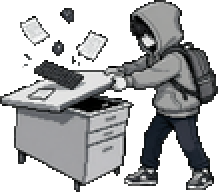
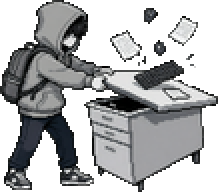
Boss fight: a PixiJS effects layer (slashes, impact stars, sparks, rings, hit-stop, jolt), the objects' battle forms, the painting lit
Effects (author 2026-11-14: 「光影、打击感、动画、光效火焰」): one Pixi canvas over the boss page,
loaded on demand (a dynamic import; the main bundle stays as it was). It reads the fight after every
render and spawns once per act, timed to the move — the laptop and the keyboard land after they
fly: a slash arc and an impact star with sparks for ours, dark red-black shards and a slow ring for
the boss's moves, rings for a shout or a dodge, green sparkles for a heal, grey rings for a miss.
Weight: a hit-stop (every animation frozen 70 ms, longer for the boss's and the desk-flip) and a
jolt of the field, as classes on the page. No WebGL or a failed import: the fight plays as before.

The objects' battle forms (author: one attack form each, one of them a doctor): eight generated
pixel fighters cut to 128 px — the chick boxer with the red headband, the pager robot with a
megaphone, the camera creature, the walkman as a nurse with a red cross (the healer), the
dictionary scholar, the calculator accountant, the meal card swordsman, the ringing phone. They
stand on the ground line and lunge when they act; their plates and gauge marks use the same art.

Also: the desk-flip sprites mirrored to face the boss; the boss sprites' remaining white leaks
cleared (greys outside the mouth); a lamp on the party's ground and a lighter lower third so the
fighters read; the painting preloaded during the pull-out so the intro opens on it.

diff --git a/src/world/endings/boss-fx.ts b/src/world/endings/boss-fx.ts
@@ -1,0 +1,217 @@
+// The boss fight's effects layer (author 2026-11-14: 「光影、打击感、动画、光效火焰」): one PixiJS canvas over
+// the boss page, loaded only when the page is up (a dynamic import; the main bundle does not carry
+// Pixi). The DOM keeps drawing the fighters; this layer draws what a hit adds — the slash arc, the
+// impact star and its sparks, the rings of a shout, the sparkles of a heal, the dark burst of the
+// boss's moves — and gives the hit its weight: a hit-stop (every animation frozen for a moment) and
+// a jolt of the field, both as classes on the page. It reads the session's fight after every render
+// and spawns once per act; the canvas element is the layer's own and is re-attached to each new page.
+// No WebGL, a failed import or a failed init: nothing is drawn and the fight plays as before.
+import type { ActionContext } from "@world/desktop/controller";
+import { ACT_MS, BOSS_BG, type Act, type BossBattle, type Fx } from "./boss";
+
+type Hook = { after(): void; destroy(): void };
+type Pixi = typeof import("pixi.js");
+
+interface Particle { g: import("pixi.js").Graphics; vx: number; vy: number; life: number; age: number; gravity: number; spin: number; ring?: { r: number; dr: number; color: number; width: number } }
+interface Pt { x: number; y: number }
+
+export const HIT_STOP_MS = 70;
+export const JOLT_MS = 320;
+/** When an act's impact lands after it starts, by the move's effect (the projectiles fly first). */
+export const IMPACT_DELAY: Readonly<Record<Fx, number>> = { throw: 640, flip: 620, strike: 300, shake: 200, flash: 120, heal: 150, none: 200 };
+
+const COLOR = { ours: 0xf6b73c, boss: 0xb91c1c, heal: 0x7fe0b8, white: 0xffffff, stage2: 0xa21caf } as const;
+
+export function createBossFx(deps: { readonly load?: () => Promise<Pixi>; readonly nowMs?: () => number } = {}): (root: HTMLElement, ctx: ActionContext) => Hook {
+  return (root, ctx) => {
+    const doc = root.ownerDocument;
+    const canvas = doc.createElement("canvas");
+    canvas.className = "bs-canvas";
+    canvas.width = 1600;
+    canvas.height = 900;
+    let pixi: Pixi | null = null;
+    let app: import("pixi.js").Application | null = null;
+    let layer: import("pixi.js").Container | null = null;
+    let loading: Promise<void> | null = null;
+    let failed = false;
+    let lastActAt = -1;
+    let preloaded = false;
+    const particles: Particle[] = [];
+    const timers = new Set<ReturnType<typeof setTimeout>>();
+    const later = (ms: number, fn: () => void) => { const id = setTimeout(() => { timers.delete(id); fn(); }, ms); timers.add(id); };
+
+    const boot = (): void => {
+      if (app || loading || failed) return;
+      loading = (deps.load ?? (() => import("pixi.js")))()
+        .then(async (P) => {
+          pixi = P;
+          const a = new P.Application();
+          await a.init({ canvas, width: 1600, height: 900, backgroundAlpha: 0, antialias: false, resolution: 1, autoDensity: false });
+          layer = new P.Container();
+          a.stage.addChild(layer);
+          a.ticker.add((t) => tick(t.deltaMS));
+          app = a;
+        })
+        .catch(() => { failed = true; canvas.remove(); });
+    };
+
+    /** A point on the page's 1600 × 900 stage from an element's box. */
+    const pointOf = (page: HTMLElement, sel: string, fx = 0.5, fy = 0.5): Pt | null => {
+      const el = page.querySelector<HTMLElement>(sel);
+      if (!el) return null;
+      const pr = page.getBoundingClientRect();
+      const r = el.getBoundingClientRect();
+      const k = pr.width > 0 ? 1600 / pr.width : 1;
+      return { x: (r.left - pr.left + r.width * fx) * k, y: (r.top - pr.top + r.height * fy) * k };
+    };
+    const targetPoint = (page: HTMLElement, b: BossBattle, id: string): Pt | null =>
+      id === "boss" ? pointOf(page, ".bs-boss-img", 0.3, 0.42) : pointOf(page, `.bs-member[data-id="${id}"] .bs-sprite`, 0.5, 0.45);
+
+    const circle = (x: number, y: number, r: number, color: number, alpha = 1): import("pixi.js").Graphics => {
+      const g = new pixi!.Graphics();
+      g.circle(0, 0, r).fill({ color, alpha });
+      g.position.set(x, y);
+      layer!.addChild(g);
+      return g;
+    };
+    const spark = (x: number, y: number, color: number, speed: number, life: number, gravity = 0.0015, size = 4): void => {
+      const a = Math.random() * Math.PI * 2;
+      const v = speed * (0.4 + Math.random() * 0.6);
+      const g = new pixi!.Graphics();
+      g.rect(-size / 2, -size / 2, size * (1 + Math.random()), size).fill({ color });
+      g.position.set(x, y);
+      g.rotation = a;
+      layer!.addChild(g);
+      particles.push({ g, vx: Math.cos(a) * v, vy: Math.sin(a) * v, life, age: 0, gravity, spin: (Math.random() - 0.5) * 0.02 });
+    };
+    /** A burst of light: the star, a ring, and sparks. */
+    const impact = (p: Pt, color: number, big = false): void => {
+      if (!pixi || !layer) return;
+      const star = new pixi.Graphics();
+      const spikes = 8, R = big ? 90 : 56;
+      for (let i = 0; i < spikes; i++) {
+        const a = (i / spikes) * Math.PI * 2;
+        star.moveTo(0, 0).lineTo(Math.cos(a) * R, Math.sin(a) * R).lineTo(Math.cos(a + 0.18) * R * 0.28, Math.sin(a + 0.18) * R * 0.28).closePath();
+      }
+      star.fill({ color: COLOR.white, alpha: 0.95 });
+      star.position.set(p.x, p.y);
+      layer.addChild(star);
+      particles.push({ g: star, vx: 0, vy: 0, life: 220, age: 0, gravity: 0, spin: 0.01 });
+      const ring = new pixi.Graphics();
+      ring.position.set(p.x, p.y);
+      layer.addChild(ring);
+      particles.push({ g: ring, vx: 0, vy: 0, life: 380, age: 0, gravity: 0, spin: 0, ring: { r: big ? 30 : 18, dr: big ? 0.42 : 0.3, color, width: 6 } });
+      for (let i = 0; i < (big ? 36 : 22); i++) spark(p.x, p.y, i % 3 === 0 ? COLOR.white : color, big ? 0.9 : 0.6, 500 + Math.random() * 400);
+    };
+    /** A slash: a bright arc across the target, fading. */
+    const slash = (p: Pt, color: number): void => {
+      if (!pixi || !layer) return;
+      const g = new pixi.Graphics();
+      g.arc(0, 0, 110, -2.2, -0.4).stroke({ color: COLOR.white, width: 14, alpha: 0.95 });
+      g.arc(0, 0, 118, -2.1, -0.5).stroke({ color, width: 5, alpha: 0.9 });
+      g.position.set(p.x, p.y + 40);
+      g.rotation = -0.3;
+      layer.addChild(g);
+      particles.push({ g, vx: 0.08, vy: -0.04, life: 260, age: 0, gravity: 0, spin: -0.012 });
+    };
+    /** Rings spreading from a shout or a page. */
+    const rings = (p: Pt, color: number): void => {
+      if (!pixi || !layer) return;
+      for (let i = 0; i < 3; i++) later(i * 110, () => {
+        if (!pixi || !layer) return;
+        const g = new pixi.Graphics();
+        g.position.set(p.x, p.y);
+        layer.addChild(g);
+        particles.push({ g, vx: 0, vy: 0, life: 520, age: 0, gravity: 0, spin: 0, ring: { r: 14, dr: 0.22, color, width: 5 } });
+      });
+    };
+    /** Sparkles rising around someone healed. */
+    const sparkles = (p: Pt): void => {
+      if (!pixi || !layer) return;
+      for (let i = 0; i < 26; i++) later(i * 28, () => {
+        if (!pixi || !layer) return;
+        const g = circle(p.x + (Math.random() - 0.5) * 120, p.y + 60 + Math.random() * 60, 3 + Math.random() * 3, COLOR.heal, 0.9);
+        particles.push({ g, vx: (Math.random() - 0.5) * 0.04, vy: -0.14 - Math.random() * 0.1, life: 700, age: 0, gravity: -0.00005, spin: 0 });
+      });
+    };
+    /** The boss's dark burst: red-black shards and a slow dark ring. */
+    const dark = (p: Pt, color: number, all: boolean): void => {
+      if (!pixi || !layer) return;
+      for (let i = 0; i < (all ? 40 : 24); i++) spark(p.x, p.y, i % 4 === 0 ? color : 0x1a0508, all ? 0.7 : 0.5, 600 + Math.random() * 500, 0.0012, 7);
+      const g = new pixi.Graphics();
+      g.position.set(p.x, p.y);
+      layer.addChild(g);
+      particles.push({ g, vx: 0, vy: 0, life: 600, age: 0, gravity: 0, spin: 0, ring: { r: all ? 40 : 24, dr: all ? 0.5 : 0.34, color, width: 10 } });
+    };
+    /** The weight of a hit: the page frozen a moment, the field jolted. */
+    const weight = (page: HTMLElement, hard: boolean): void => {
+      page.classList.add("bs-stop");
+      later(HIT_STOP_MS * (hard ? 1.6 : 1), () => page.classList.remove("bs-stop"));
+      const field = page.querySelector<HTMLElement>(".bs-field");
+      if (field) { field.classList.remove("bs-jolt", "bs-jolt-hard"); void field.offsetWidth; field.classList.add(hard ? "bs-jolt-hard" : "bs-jolt"); later(JOLT_MS, () => field.classList.remove("bs-jolt", "bs-jolt-hard")); }
+    };
+
+    const spawn = (page: HTMLElement, b: BossBattle, act: Act): void => {
+      const ours = act.who !== "boss";
+      const color = ours ? (act.who === "qkuro" ? COLOR.heal : COLOR.ours) : b.boss.stage === 2 ? COLOR.stage2 : COLOR.boss;
+      const delay = IMPACT_DELAY[act.move.fx];
+      later(delay, () => {
+        const live = root.querySelector<HTMLElement>(".boss-page");
+        if (!live || !pixi || !layer) return;
+        if (act.move.fx === "heal") { const p = targetPoint(live, b, act.who === "qkuro" ? "player" : act.who); if (p) sparkles(p); return; }
+        if (act.move.dodge) { const p = targetPoint(live, b, act.who); if (p) rings(p, COLOR.white); return; }
+        const targets = act.hits.length ? act.hits.map((h) => h.id) : [act.target === "all" ? "player" : act.target];
+        const missed = act.hits.length === 0;
+        for (const id of targets) {
+          const p = targetPoint(live, b, id);
+          if (!p) continue;
+          if (missed) { rings(p, 0x9aa0a6); continue; }
+          if (!ours) { dark(p, color, act.move.all === true); continue; }
+          if (act.move.fx === "strike") slash(p, color);
+          if (act.move.fx === "shake") rings(p, color);
+          impact(p, color, act.move.fx === "flip" || act.move.fx === "throw");
+        }
+        if (!missed) weight(live, !ours || act.move.fx === "flip");
+      });
+      void ACT_MS;
+    };
+
+    const tick = (dt: number): void => {
+      for (let i = particles.length - 1; i >= 0; i--) {
+        const p = particles[i]!;
+        p.age += dt;
+        if (p.age >= p.life) { p.g.destroy(); particles.splice(i, 1); continue; }
+        p.vy += p.gravity * dt;
+        p.g.x += p.vx * dt;
+        p.g.y += p.vy * dt;
+        p.g.rotation += p.spin * dt;
+        const t = p.age / p.life;
+        p.g.alpha = 1 - t * t;
+        if (p.ring) { p.ring.r += p.ring.dr * dt; p.g.clear().circle(0, 0, p.ring.r).stroke({ color: p.ring.color, width: p.ring.width * (1 - t * 0.6), alpha: 0.9 }); }
+      }
+    };
+
+    return {
+      after() {
+        // the painting is fetched while the pull-out still runs, so the intro opens on it, not on black
+        if (!preloaded && root.querySelector(".pullout-page, .boss-page")) { preloaded = true; const img = new (root.ownerDocument.defaultView!.Image)(); img.src = BOSS_BG; }
+        const page = root.querySelector<HTMLElement>(".boss-page");
+        if (!page) { lastActAt = -1; return; }
+        if (!failed && canvas.parentElement !== page) page.appendChild(canvas);
+        boot();
+        const b = ctx.session.boss;
+        if (!b?.act || b.act.at === lastActAt) return;
+        lastActAt = b.act.at;
+        spawn(page, b, b.act);
+      },
+      destroy() {
+        timers.forEach(clearTimeout);
+        timers.clear();
+        try { app?.destroy(); } catch { /* already gone */ }
+        app = null;
+        layer = null;
+        canvas.remove();
+      },
+    };
+  };
+}

diff --git a/src/world/room/room.css b/src/world/room/room.css
@@ -677,20 +677,24 @@
    edge, the boss's bar full-width at the bottom; the painted background with the tiny room in the distance */
 .boss-page{position:relative;width:1600px;height:900px;overflow:hidden;background:#05060a;color:#efe9df;font-family:"PingFang SC","Hiragino Sans GB",sans-serif}
 .bs-bg{position:absolute;inset:0;background:#05060a url(/battle/boss-bg.jpg) center/cover no-repeat}
-.bs-bg::after{content:"";position:absolute;inset:0;background:linear-gradient(180deg,rgba(0,0,0,.25),transparent 30%,transparent 70%,rgba(0,0,0,.55))}
+.bs-bg::after{content:"";position:absolute;inset:0;background:radial-gradient(42% 30% at 24% 86%,rgba(255,214,150,.34),rgba(255,214,150,.12) 45%,transparent 70%),radial-gradient(60% 40% at 72% 88%,rgba(185,28,28,.16),transparent 70%),linear-gradient(180deg,rgba(0,0,0,.25),transparent 30%,transparent 62%,rgba(120,100,150,.22) 82%,rgba(140,120,170,.28))}
 /* the intro: only the painting and the words; the boss rises as the fight starts */
 .boss-page[data-phase="intro"] .bs-boss,.boss-page[data-phase="intro"] .bs-top,.boss-page[data-phase="intro"] .bs-atb,.boss-page[data-phase="intro"] .bs-bossbar{opacity:0;pointer-events:none}
 .boss-page[data-phase="intro"] .bs-party{opacity:.85}
 .bs-boss,.bs-top,.bs-atb,.bs-bossbar{transition:opacity 900ms ease-out}
 .bs-field{position:absolute;inset:0}
-.bs-ground{position:absolute;left:0;right:0;bottom:0;height:150px;background:linear-gradient(180deg,transparent,rgba(0,0,0,.45))}
+.bs-ground{position:absolute;left:0;right:0;bottom:0;height:150px;background:linear-gradient(180deg,transparent,rgba(0,0,0,.35))}
+/* a lamp on the party: the ground under them lit, the sprites lifted out of the dark */
+.bs-party::before{content:"";position:absolute;left:-80px;right:-80px;bottom:-30px;height:70px;border-radius:50%;background:radial-gradient(50% 50% at 50% 50%,rgba(255,220,160,.45),rgba(255,220,160,.12) 55%,transparent 72%);pointer-events:none}
+.bs-member .bs-sprite{filter:brightness(1.25) contrast(1.05) drop-shadow(0 0 2px rgba(255,235,200,.35))}
 .bs-party{position:absolute;left:120px;bottom:132px;display:flex;align-items:flex-end;gap:26px;transition:transform 1.6s ease-in-out}
 .bs-member{position:relative;display:flex;align-items:flex-end;justify-content:center;transition:opacity 400ms;filter:drop-shadow(0 18px 10px rgba(0,0,0,.6))}
 .bs-member .bs-sprite{display:block;image-rendering:pixelated}
 .bs-member.player{order:3}
 .bs-member.player .bs-sprite{height:192px;animation:bs-breathe 2.6s ease-in-out infinite}
 .bs-member.object{order:1}
-.bs-member.object .bs-sprite{height:72px;animation:bs-breathe 3.4s ease-in-out infinite}
+.bs-member.object .bs-sprite{height:128px;animation:bs-breathe 3.4s ease-in-out infinite}
+.bs-member.object.acting .bs-sprite{animation:bs-lunge 900ms ease-out both}
 .bs-member.qkuro{order:2}
 .bs-member.qkuro .bs-sprite{height:120px;animation:bs-breathe 2s ease-in-out infinite}
 .bs-member.down{opacity:.35;filter:grayscale(1)}
@@ -751,7 +755,7 @@
 .boss-page.shake .bs-field{animation:bt-shake 460ms steps(6)}
 /* the words: under the statuses, centred; the moves by the player's feet; the boss's bar at the very bottom */
 .bs-box{position:absolute;left:50%;top:92px;width:860px;margin-left:-430px;min-height:72px;padding:18px 28px 18px 24px;box-sizing:border-box;background:rgba(5,6,10,.82);border:2px solid rgba(255,255,255,.28);border-radius:8px;font-size:21px;line-height:1.6;z-index:4}
-.boss-page[data-phase="intro"] .bs-box{top:auto;bottom:150px;width:1000px;margin-left:-500px;font-size:24px;padding:26px 34px}
+.boss-page[data-phase="intro"] .bs-box{top:70px;width:1000px;margin-left:-500px;font-size:24px;padding:26px 34px}
 .bs-box p{margin:0}
 .bs-box.more{cursor:pointer}
 .bs-hit{position:absolute;inset:0;border:0;padding:0;margin:0;background:transparent;cursor:pointer}
@@ -771,3 +775,10 @@
 .boss-page.after.strong .bs-party{transform:translateX(980px)}
 .boss-page.after.strong .bs-member.player .bs-sprite{transform:scaleX(-1);filter:brightness(.35) drop-shadow(0 0 24px rgba(185,28,28,.9))}
 .boss-page.after.strong .bs-member.object,.boss-page.after.strong .bs-member.qkuro{opacity:0}
+/* the effects canvas (boss-fx): over everything but the words; the hit's weight as classes */
+.bs-canvas{position:absolute;left:0;top:0;width:1600px;height:900px;pointer-events:none;z-index:3}
+.boss-page.bs-stop *{animation-play-state:paused!important;transition:none!important}
+.bs-field.bs-jolt{animation:bs-jolt 320ms cubic-bezier(.2,.9,.3,1) both}
+.bs-field.bs-jolt-hard{animation:bs-jolt-hard 320ms cubic-bezier(.2,.9,.3,1) both}
+@keyframes bs-jolt{0%{transform:translate(0,0)}20%{transform:translate(-8px,3px)}45%{transform:translate(6px,-3px)}70%{transform:translate(-3px,2px)}100%{transform:translate(0,0)}}
+@keyframes bs-jolt-hard{0%{transform:translate(0,0)}15%{transform:translate(-18px,8px) scale(1.01)}35%{transform:translate(14px,-6px)}55%{transform:translate(-8px,4px)}75%{transform:translate(4px,-2px)}100%{transform:translate(0,0)}}

diff --git a/src/world/endings/boss.ts b/src/world/endings/boss.ts
@@ -234,8 +234,9 @@ const PROP = { throw: "/battle/prop-laptop.png", flip: "/battle/prop-keyboard.pn
 export const BOSS_BG = "/battle/boss-bg.jpg";
 
 const bar = (v: number, max: number, kind: string): SafeHtml => html`<i class="${cls("bs-bar", kind)}"><b style="width:${String(Math.round((100 * Math.max(0, v)) / Math.max(1, max)))}%"></b></i>`;
-const faceOf = (b: BossBattle, m: Member): string => (m.kind === "player" ? `/player/${b.look}.png` : m.kind === "qkuro" ? "/battle/q-kuro.png" : `/objects/${m.id}_front.png`);
-const spriteOf = (b: BossBattle, m: Member, pose: Pose): string => (m.kind === "player" ? `/battle/party/${b.look}-${pose === "hurt" ? "stance" : pose}.png` : m.kind === "qkuro" ? "/battle/q-kuro.png" : `/objects/${m.id}_front.png`);
+/** The objects' battle forms (author 2026-11-14: one attack form each, the walkman the doctor): `public/battle/party/obj-<id>.png`. */
+const faceOf = (b: BossBattle, m: Member): string => (m.kind === "player" ? `/player/${b.look}.png` : m.kind === "qkuro" ? "/battle/q-kuro.png" : `/battle/party/obj-${m.id}.png`);
+const spriteOf = (b: BossBattle, m: Member, pose: Pose): string => (m.kind === "player" ? `/battle/party/${b.look}-${pose === "hurt" ? "stance" : pose}.png` : m.kind === "qkuro" ? "/battle/q-kuro.png" : `/battle/party/obj-${m.id}.png`);
 
 export function renderBoss(b: BossBattle, nowMs: number): SafeHtml {
   const acting = b.act && nowMs - b.act.at < ACT_MS ? b.act : null;
@@ -257,7 +258,7 @@ export function renderBoss(b: BossBattle, nowMs: number): SafeHtml {
   const members = b.party.map((m) => {
     const hit = hitOf(m.id);
     const pose: Pose = acting?.who === m.id ? (acting.move.pose ?? (m.kind === "player" ? "strike" : "stance")) : m.hp <= 0 ? "hurt" : "stance";
-    return html`<div class="${cls("bs-member", m.kind, m.hp <= 0 && "down", hit && hit.n > 0 && "hurt", hit && hit.n < 0 && "healed", (b.chooser === m.id) && "ready", acting?.who === m.id && "acting")}">
+    return html`<div class="${cls("bs-member", m.kind, m.hp <= 0 && "down", hit && hit.n > 0 && "hurt", hit && hit.n < 0 && "healed", (b.chooser === m.id) && "ready", acting?.who === m.id && "acting")}" data-id="${m.id}">
       <img class="bs-sprite" src="${spriteOf(b, m, pose)}" alt="">
       ${hit ? html`<span class="${cls("bs-num", hit.n < 0 && "heal")}">${hit.n < 0 ? `+${String(-hit.n)}` : String(hit.n)}</span>` : null}
     </div>`;

diff --git a/src/world/desktop/controller.ts b/src/world/desktop/controller.ts
@@ -303,6 +303,8 @@ export interface DesktopDeps {
   readonly hand?: (root: HTMLElement, ctx: ActionContext, actions: Record<string, ActionHandler>) => { after(): void; destroy(): void };
   /** The day-18 pull-out's frame driver (room-scene); runs with or without the splat. */
   readonly pull?: (root: HTMLElement, ctx: ActionContext) => { after(): void; destroy(): void };
+  /** The boss fight's effects layer (2026-11-14): a Pixi canvas over the boss page, loaded when the page is up. */
+  readonly bossFx?: (root: HTMLElement, ctx: ActionContext) => { after(): void; destroy(): void };
   /** tingtalk R1b: where the windows' placement is remembered for the run (absent = the page only). */
   readonly placement?: { readonly storage: Pick<Storage, "getItem" | "setItem"> | null; readonly runId: string };
   /** photo-album R1: told when a room photo is first seen developed (the host writes the profile). */
@@ -442,6 +444,7 @@ export function mountDesktop(root: HTMLElement, deps: DesktopDeps): { destroy: (
     nav?.after();
     fx?.after();
     pull?.after();
+    bossFx?.after();
     hand?.after();
     // While Kuro crawls between windows, render again when it should stop.
     if (session.movingUntil > Date.now()) later(session.movingUntil - Date.now() + 20, rerender);
@@ -488,6 +491,7 @@ export function mountDesktop(root: HTMLElement, deps: DesktopDeps): { destroy: (
   const splat = deps.splat ? deps.splat(root, ctx) : null;
   const nav = deps.nav ? deps.nav(root, ctx, actions, splat) : null;
   const pull = deps.pull ? deps.pull(root, ctx) : null;
+  const bossFx = deps.bossFx ? deps.bossFx(root, ctx) : null;
   const fx = deps.fx ? deps.fx(root, ctx) : null;
   const hand = deps.hand ? deps.hand(root, ctx, actions) : null;
 
@@ -700,6 +704,7 @@ export function mountDesktop(root: HTMLElement, deps: DesktopDeps): { destroy: (
       motion?.destroy();
       splat?.destroy();
       pull?.destroy();
+      bossFx?.destroy();
       fx?.destroy();
       hand?.destroy();
       nav?.destroy();

diff --git a/src/main.ts b/src/main.ts
@@ -28,6 +28,7 @@ import { createNav } from "@world/room/nav";
 import { settleSession } from "@world/dialogue/place";
 import { createPullDriver } from "@world/endings/pullout-dom";
 import { bossStart } from "@world/endings/boss";
+import { createBossFx } from "@world/endings/boss-fx";
 import { clearAll, createProfileWriter, createRunSlot, restartRun } from "@state/saves";
 import { createStore, type Store } from "@state/store";
 import { parseBeatParams } from "@world/desktop/beat";
@@ -157,6 +158,8 @@ function startGame(store: Store, saved: boolean, prologue = false): void {
     nav: createNav(),
     // The day-18 pull-out's frames (splat or photo fallback).
     pull: createPullDriver(),
+    // The boss fight's hits, slashes, sparks and jolts: one Pixi canvas over the page, loaded on demand.
+    bossFx: createBossFx(),
     hand: createHandLayer(),
   });
   // What finished runs left on the desk (presentation only; the story never reads it).
